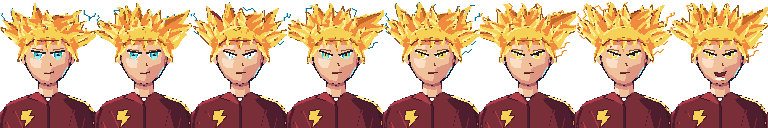
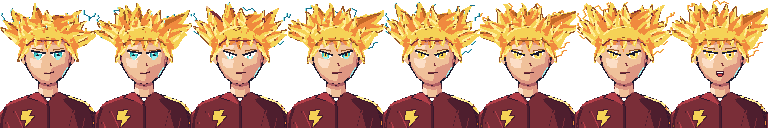
Bolt charge strip: final held frame is the shout with yellow eyes
Claude-Session: https://claude.ai/code/session_01J8LgTLVYzThXjNSRVhWqep

diff --git a/tools/sprites/anime_bolt.py b/tools/sprites/anime_bolt.py
@@ -608,7 +608,7 @@ BT_CHARGE = [
     (-0.8, "determined", dict(arcs=5, rim=6, flare=1.10, yel=0.75, pupil=0.65, glow=1, side=4)),
     (1.0, "determined", dict(arcs=6, rim=8, flare=1.14, yel=1.1, pupil=0.55, glow=2, arcyel=1, side=5)),
     (-0.9, "determined", dict(arcs=8, rim=10, flare=1.2, yel=1.1, pupil=0.5, glow=2, arcyel=1, side=6)),
-    (0.4, "grin", dict(arcs=5, rim=7, flare=1.14, yel=1.1, pupil=0.55, glow=2, arcyel=1, side=4)),
+    (0.5, "shout", dict(arcs=5, rim=7, flare=1.14, yel=1.1, pupil=0.55, glow=2, arcyel=1, side=4)),
 ]
 BT_CHARGE_MS = [500, 110, 110, 110, 110, 110, 110, 900]
 
